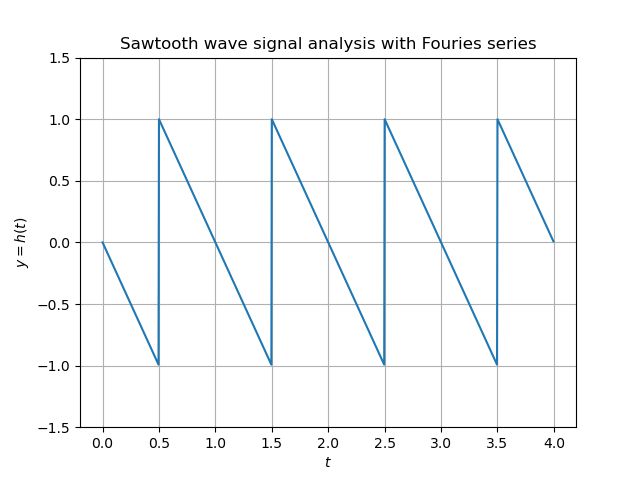
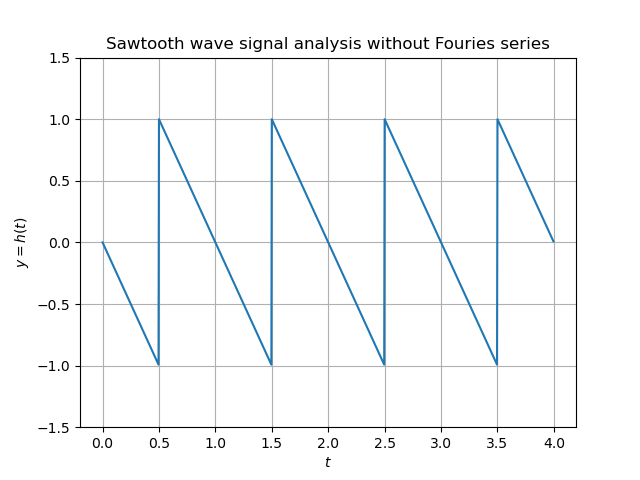
changed title error in original sawtooth wave plot

Changed region(s): [[0.1562, 0.0625, 0.8438, 0.125]]

diff --git a/sawtooth-wave-fourier-series.py b/sawtooth-wave-fourier-series.py
@@ -42,7 +42,7 @@ def main():
     plt.plot(x4, y4)
     plt.xlabel("$t$")
     plt.ylabel("$y=h(t)$")
-    plt.title("Sawtooth wave signal analysis with Fouries series")
+    plt.title("Sawtooth wave signal analysis without Fouries series")
     plt.grid()
     plt.ylim([-1.5, 1.5])
     plt.savefig("homework2-task3-plots/sawtooth-wave.png", format="png")
